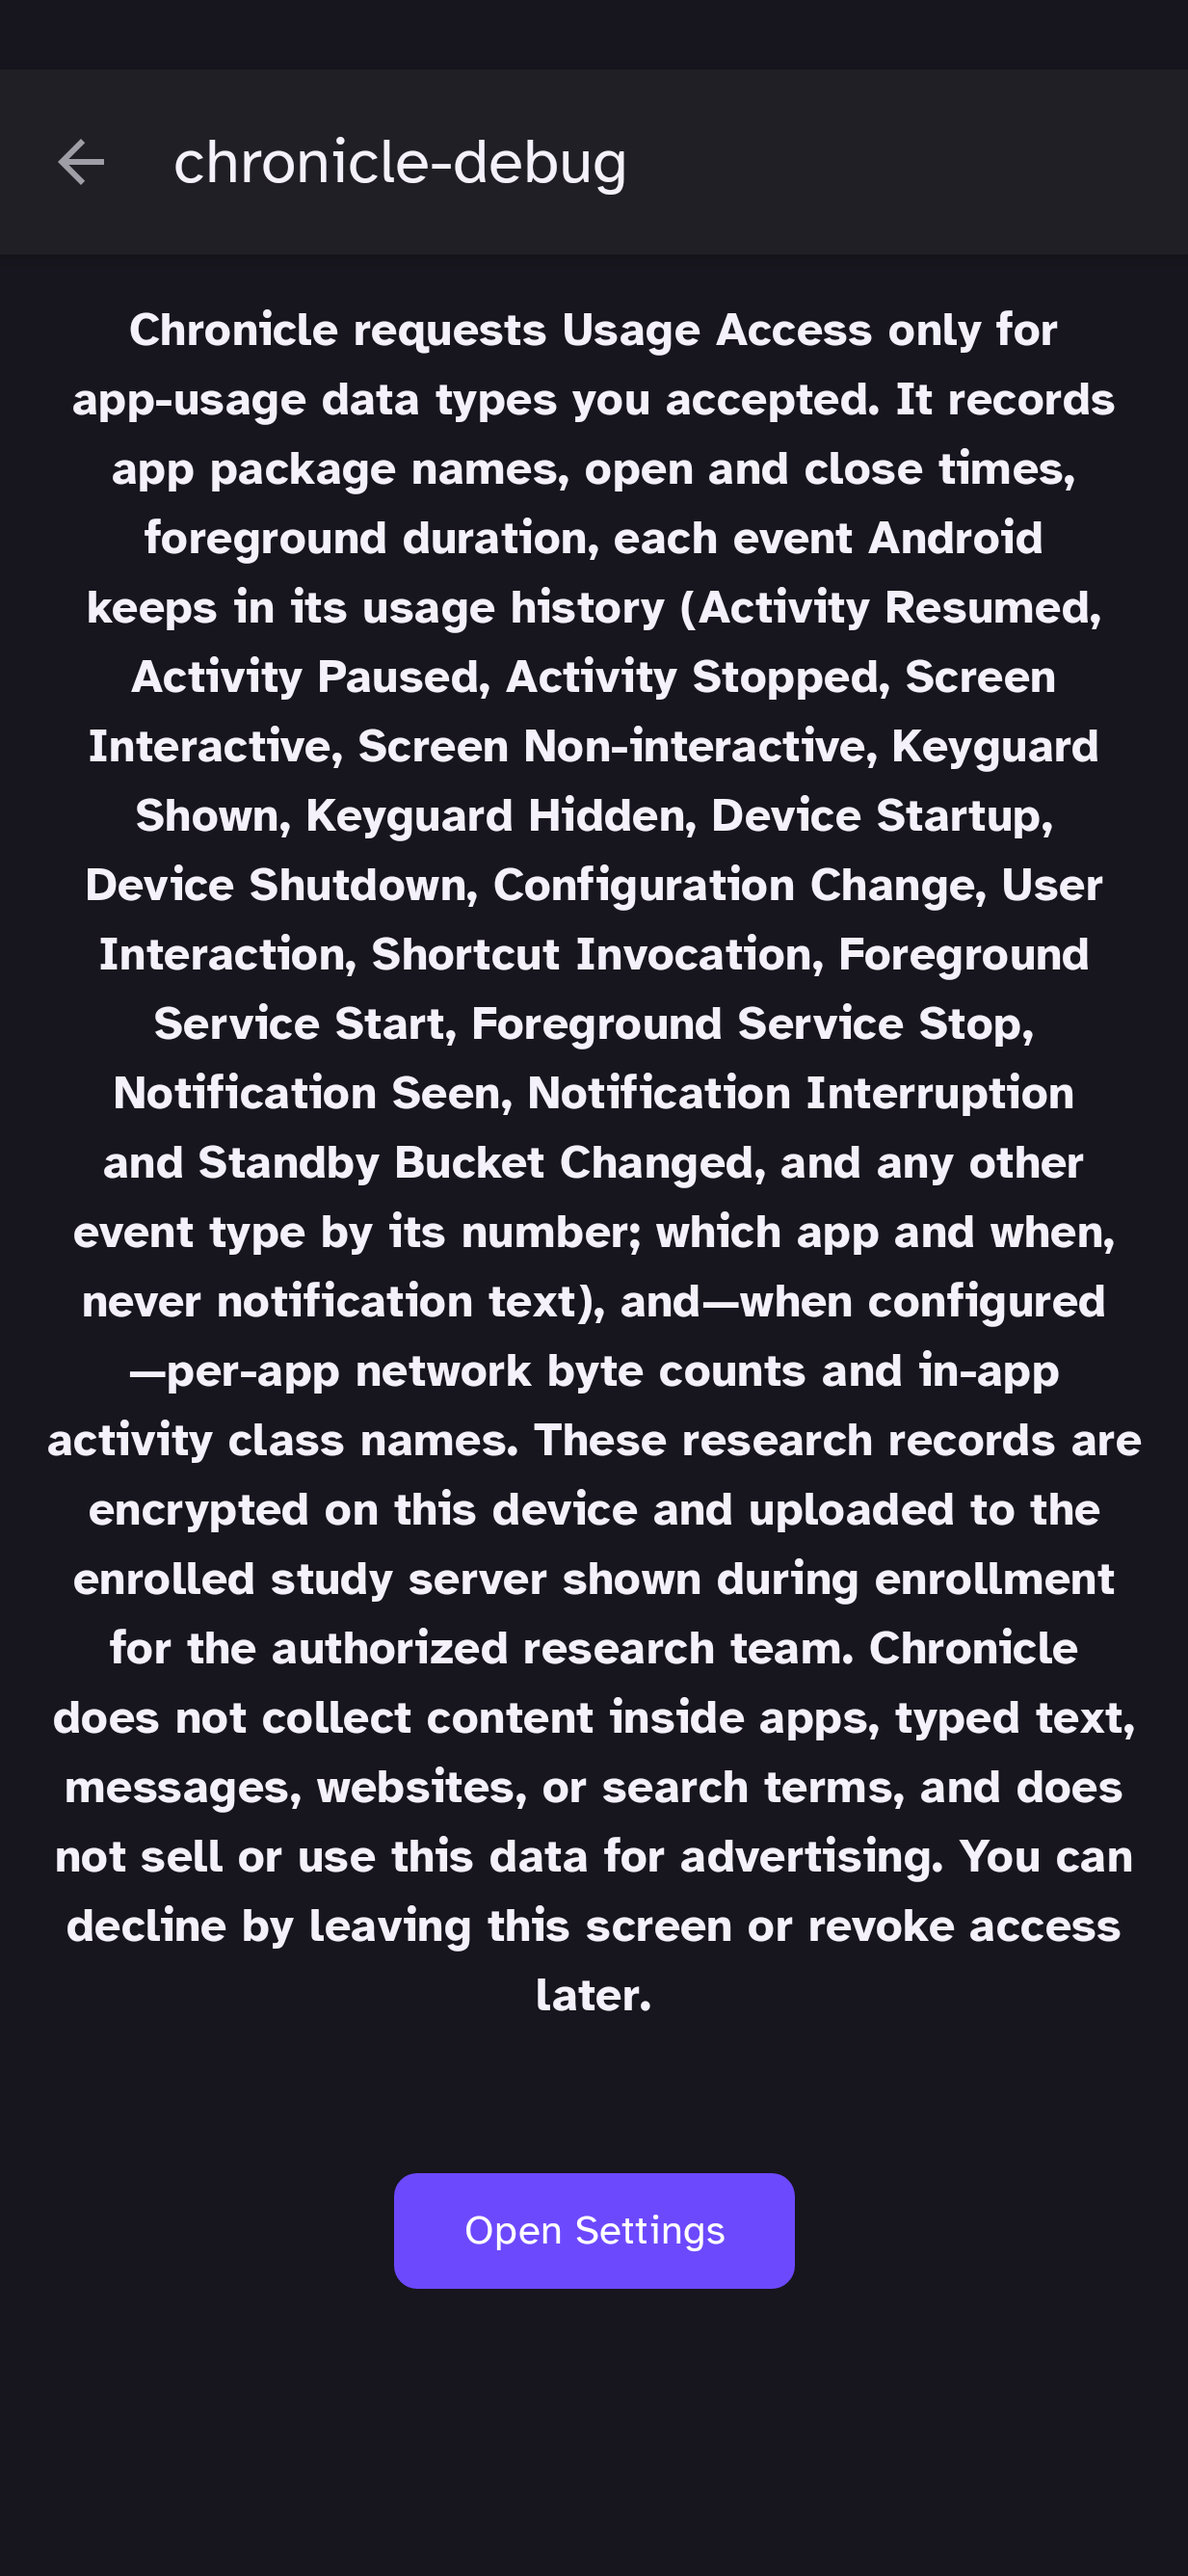
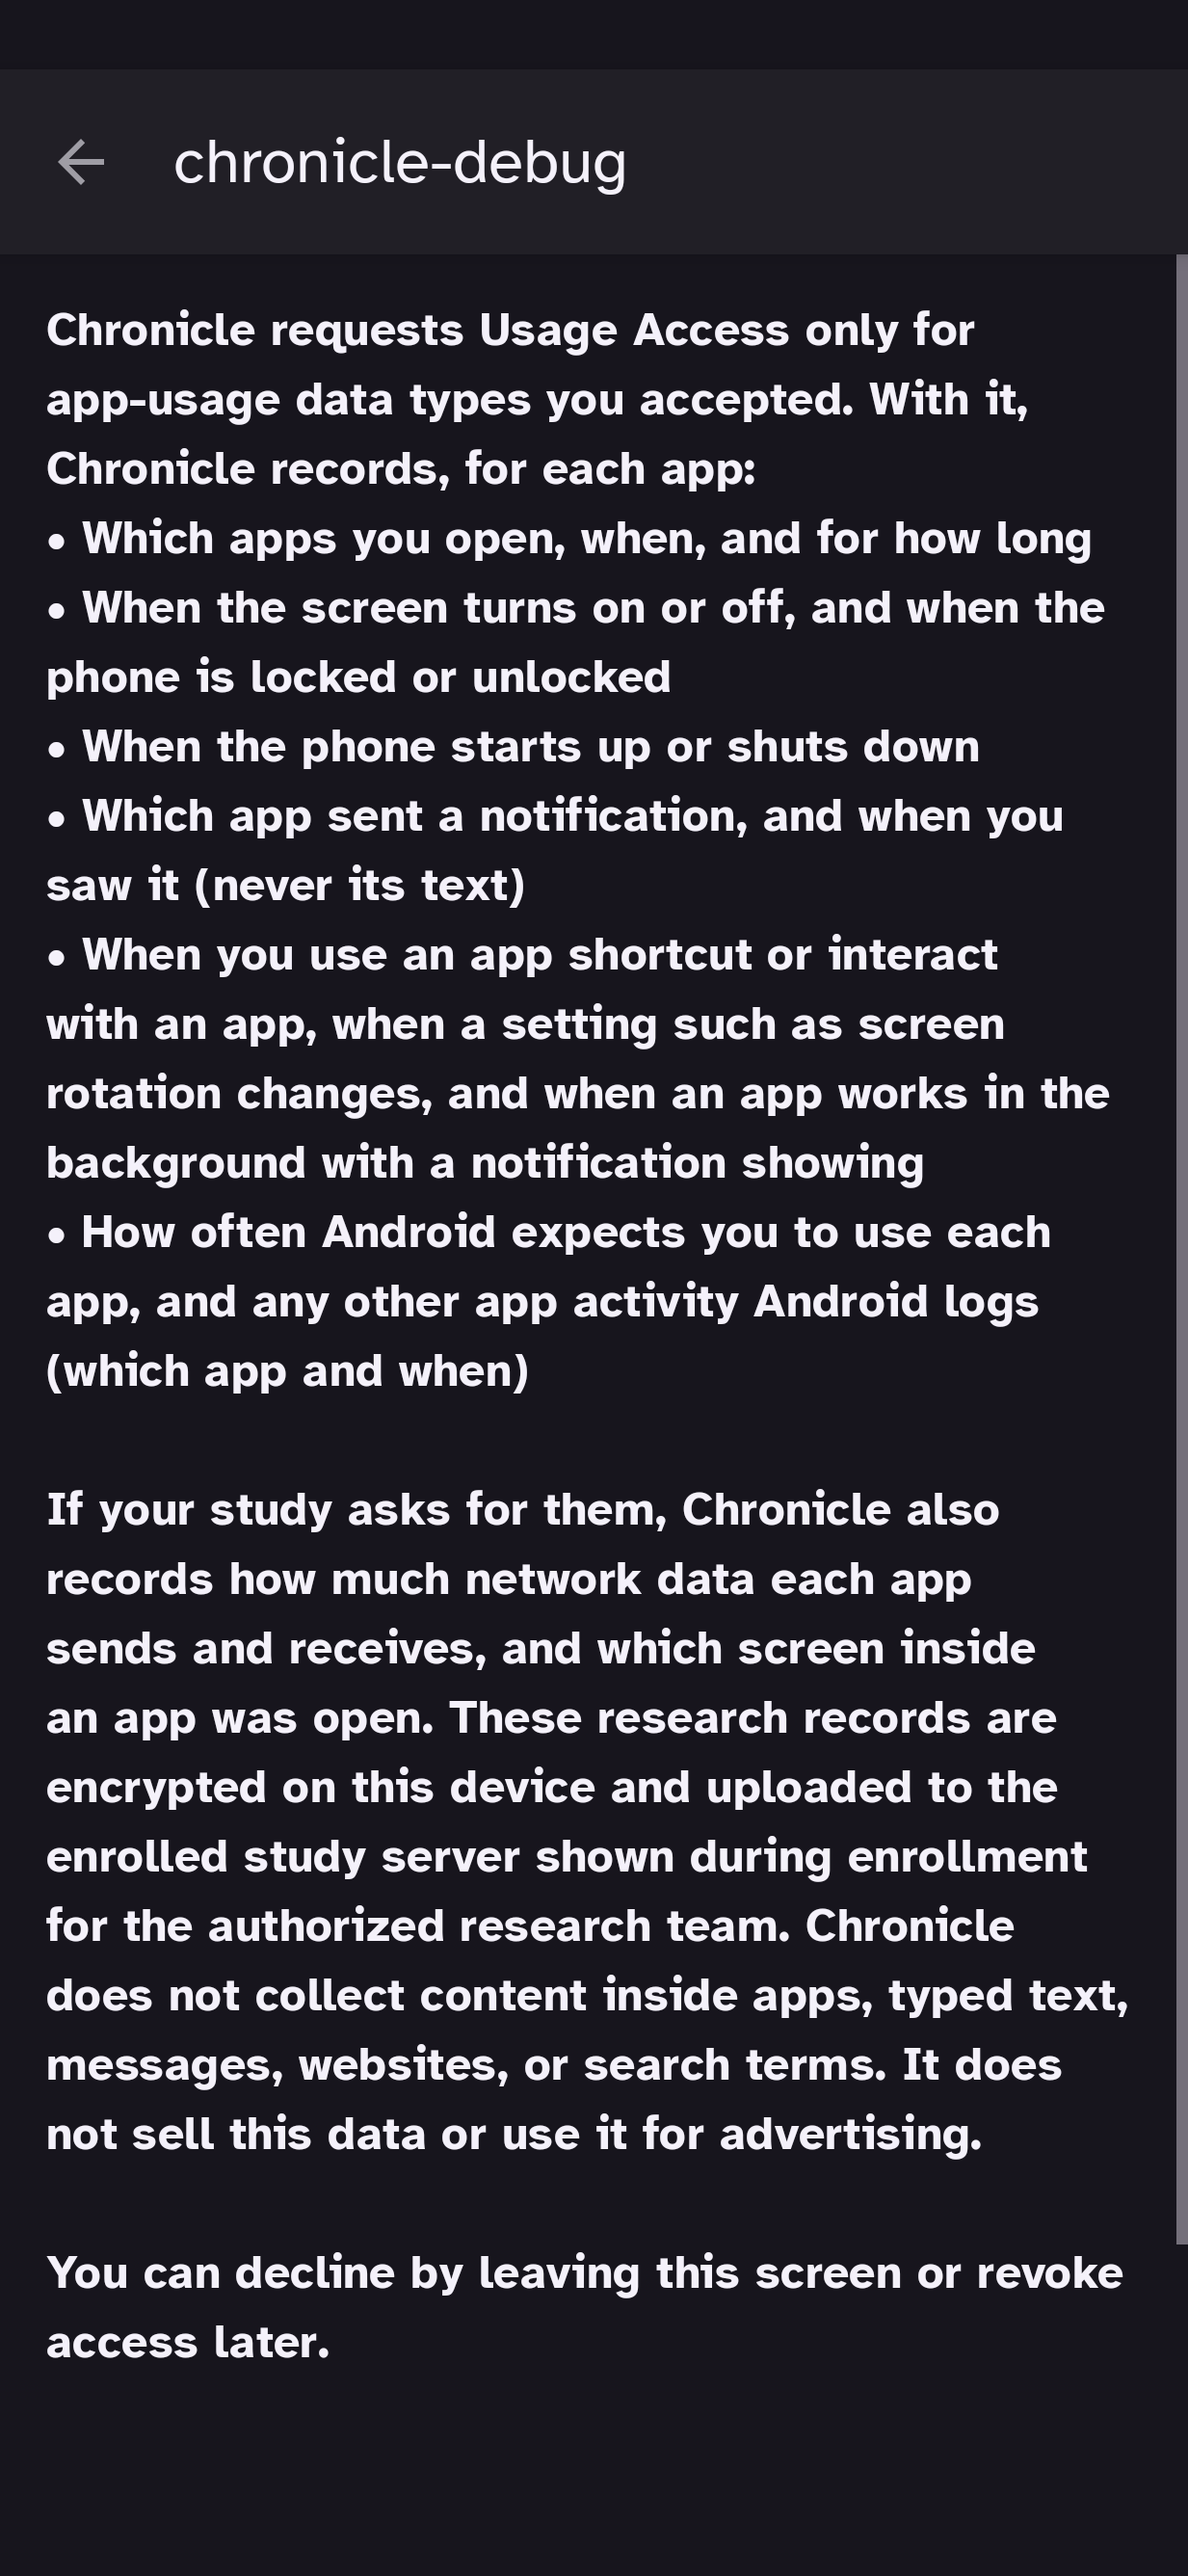
fix(android): show service notifications at once; versionCode 84
- The device-user and sensor foreground-service notifications are
  posted at once (FOREGROUND_SERVICE_IMMEDIATE) instead of after up to
  10 s on Android 12+.
- The "Share app usage data?" dialog and the Usage Access screen list
  the data-choice step's plain bullets instead of Android event names,
  in English and Spanish.
- versionCode 84 (2026.11.04-internal.open.3).

Changed region(s): [[0.0308, 0.1242, 0.9554, 0.9315], [0.9862, 0.0932, 1.0, 0.8694], [0.8321, 0.8694, 0.9554, 0.9005]]

diff --git a/app/src/test/java/com/openlattice/chronicle/services/PlatformGateTest.kt b/app/src/test/java/com/openlattice/chronicle/services/PlatformGateTest.kt
@@ -18,6 +18,7 @@ import android.os.IBinder
 import android.os.PowerManager
 import android.provider.Settings
 import android.os.Build
+import androidx.core.app.NotificationCompat
 import androidx.test.core.app.ApplicationProvider
 import androidx.work.WorkManager
 import com.openlattice.chronicle.BuildConfig
@@ -61,14 +62,14 @@ class PlatformGateTest {
     private val alarmManager = requireNotNull(app.getSystemService(AlarmManager::class.java)) { "alarm manager available" }
     private val channelId = "guard-test"
 
-    private fun notification(): Notification {
+    private fun notification(): NotificationCompat.Builder {
         manager.createNotificationChannel(NotificationChannel(channelId, "Guard test", NotificationManager.IMPORTANCE_LOW))
-        return Notification.Builder(app, channelId).setSmallIcon(android.R.drawable.ic_dialog_info).build()
+        return NotificationCompat.Builder(app, channelId).setSmallIcon(android.R.drawable.ic_dialog_info)
     }
 
     @Test @Config(sdk = [32, Build.VERSION_CODES.TIRAMISU, 36])
     fun notificationPostingChecksRuntimeAndAppState() {
-        val notification = notification()
+        val notification = notification().build()
         shadowOf(app).denyPermissions(Manifest.permission.POST_NOTIFICATIONS)
         // Robolectric does not model Android's silent drop; assert the guard's decision.
         assertEquals(Build.VERSION.SDK_INT < Build.VERSION_CODES.TIRAMISU, postNotificationIfPermitted(app, 1, notification))
@@ -160,13 +161,16 @@ class PlatformGateTest {
         shadowOf(app).denyPermissions(Manifest.permission.POST_NOTIFICATIONS)
         // Robolectric does not enforce manifest service types; inspect the successful promotion.
         val service = Robolectric.buildService(TestService::class.java).create().get()
-        val notification = notification()
-        assertTrue(promoteForegroundServiceIfPermitted(service, 1, notification))
+        val builder = notification()
+        assertTrue(promoteForegroundServiceIfPermitted(service, 1, builder))
         if (Build.VERSION.SDK_INT >= 29) {
             assertEquals(if (Build.VERSION.SDK_INT >= Build.VERSION_CODES.UPSIDE_DOWN_CAKE) ServiceInfo.FOREGROUND_SERVICE_TYPE_SPECIAL_USE else 0,
                 service.foregroundServiceType)
         }
         assertEquals(1, shadowOf(service).lastForegroundNotificationId)
+        // Android 12+ defers a foreground-service notification up to 10 s unless it asks to be shown at once;
+        // NotificationCompat passes this to the platform builder on 31+.
+        assertEquals(NotificationCompat.FOREGROUND_SERVICE_IMMEDIATE, builder.foregroundServiceBehavior)
     }
 
     @Test @Config(sdk = [30, Build.VERSION_CODES.S, 36])

diff --git a/app/src/test/java/com/openlattice/chronicle/release/UsageEventDisclosureContractTest.kt b/app/src/test/java/com/openlattice/chronicle/release/UsageEventDisclosureContractTest.kt
@@ -18,6 +18,7 @@ import org.junit.Assert.assertEquals
 import org.junit.Assert.assertFalse
 import org.junit.Assert.assertTrue
 import org.junit.Test
+import java.util.Locale
 import org.junit.runner.RunWith
 import org.robolectric.RobolectricTestRunner
 import org.robolectric.Shadows.shadowOf
@@ -55,8 +56,6 @@ class UsageEventDisclosureContractTest {
         assertTrue(names.containsAll(listOf("Notification Seen", "Standby Bucket Changed", "Foreground Service Start")))
         val disclosures = mapOf(
             "privacy policy" to app.getString(R.string.platform_privacy_policy_full),
-            "usage access disclosure" to app.getString(R.string.usage_access_disclosure_body),
-            "usage access screen" to app.getString(R.string.usage_settings_permission),
             "data safety" to checkNotNull(javaClass.getResourceAsStream("/data-safety.md")).bufferedReader().use { it.readText() },
         )
         disclosures.forEach { (where, text) ->
@@ -72,6 +71,24 @@ class UsageEventDisclosureContractTest {
         }
         names.forEach { assertTrue("no plain-language usage consent bullet covers $it", it in BULLET_OF_LABEL) }
         bullets.forEach { bullet -> names.forEach { assertFalse("usage consent shows the Android name $it", it in bullet) } }
+    }
+
+    /**
+     * The Usage Access dialog and screen list the data-choice step's plain bullets word for word, in every language,
+     * and show no Android event name. The bullets are repeated in the strings, so this keeps the two from drifting.
+     */
+    @Test fun usageAccessTextsListThePlainBulletsInEveryLanguage() {
+        for (language in listOf("en", "es")) {
+            val localized = app.createConfigurationContext(
+                Configuration(app.resources.configuration).apply { setLocale(Locale.forLanguageTag(language)) })
+            val plain = localized.resources.getStringArray(R.array.consent_usage_events_collects).toList()
+            assertEquals(PLAIN_BULLETS.size, plain.size)
+            listOf(R.string.usage_access_disclosure_body, R.string.usage_settings_permission).forEach { id ->
+                val text = localized.getString(id)
+                plain.forEach { assertTrue("$language ${localized.resources.getResourceEntryName(id)} must list '$it'", it in text) }
+                BULLET_OF_LABEL.keys.forEach { assertFalse("$language text shows the Android name $it", it in text) }
+            }
+        }
     }
 
     private companion object {

diff --git a/app/src/main/java/com/openlattice/chronicle/services/ForegroundServices.kt b/app/src/main/java/com/openlattice/chronicle/services/ForegroundServices.kt
@@ -1,13 +1,13 @@
 package com.openlattice.chronicle.services
 
 import androidx.annotation.CheckResult
-import android.app.Notification
 import android.app.Service
 import android.content.Context
 import android.content.Intent
 import android.content.pm.ServiceInfo
 import android.os.Build
 import android.util.Log
+import androidx.core.app.NotificationCompat
 import androidx.core.app.ServiceCompat
 import androidx.core.content.ContextCompat
 
@@ -27,8 +27,14 @@ internal fun startForegroundServiceIfPermitted(context: Context, intent: Intent)
     }
 }
 
+/**
+ * Promotes [service] with the notification from [builder]. The notification is always shown at once: Android 12+
+ * otherwise holds a foreground-service notification back for up to 10 s, and a participant who just turned a module
+ * on must see that collection is running. Taking the builder (not a built Notification) keeps that rule in one place.
+ */
 @CheckResult
-internal fun promoteForegroundServiceIfPermitted(service: Service, id: Int, notification: Notification): Boolean {
+internal fun promoteForegroundServiceIfPermitted(service: Service, id: Int, builder: NotificationCompat.Builder): Boolean {
+    val notification = builder.setForegroundServiceBehavior(NotificationCompat.FOREGROUND_SERVICE_IMMEDIATE).build()
     return try {
         // specialUse has no runtime prerequisites; promotion enforces access: https://developer.android.com/develop/background-work/services/fgs/service-types#special-use
         ServiceCompat.startForeground(service, id, notification,

diff --git a/app/src/main/java/com/openlattice/chronicle/services/notifications/DeviceUnlockMonitoringService.kt b/app/src/main/java/com/openlattice/chronicle/services/notifications/DeviceUnlockMonitoringService.kt
@@ -161,7 +161,8 @@ class DeviceUnlockMonitoringService : Service() {
                 PendingIntent.getActivity(applicationContext, 0, it, getPendingIntentMutabilityFlag(0))
             }
 
-        val notification = NotificationCompat.Builder(applicationContext, UNLOCK_MONITORING_CHANNEL_ID)
+        // promoteForegroundServiceIfPermitted posts it at once; Android 12+ would otherwise defer it up to 10 s.
+        val notificationBuilder = NotificationCompat.Builder(applicationContext, UNLOCK_MONITORING_CHANNEL_ID)
             .setContentTitle(getString(R.string.interactivity_monitoring_notification_title))
             .setContentText(getString(R.string.interactivity_monitoring_notification_message))
             .setPriority(NotificationCompat.PRIORITY_LOW)
@@ -169,11 +170,10 @@ class DeviceUnlockMonitoringService : Service() {
             .setSmallIcon(R.drawable.ic_stat_notification)
             .setColor(ContextCompat.getColor(applicationContext, R.color.colorPrimary))
             .setContentIntent(pendingIntent)
-            .build()
 
         val notificationId =
             applicationContext.resources.getInteger(R.integer.unlock_phone_monitoring_notification_id)
-        return promoteForegroundServiceIfPermitted(this, notificationId, notification)
+        return promoteForegroundServiceIfPermitted(this, notificationId, notificationBuilder)
     }
 
     private fun createReceiverIntentFilter(

diff --git a/app/src/googleServices/java/com/openlattice/chronicle/services/sensors/HardwareSensorService.kt b/app/src/googleServices/java/com/openlattice/chronicle/services/sensors/HardwareSensorService.kt
@@ -514,7 +514,7 @@ class HardwareSensorService @JvmOverloads constructor(
             PendingIntent.getActivity(applicationContext, 0, it, getPendingIntentMutabilityFlag(0))
         }
 
-        val notification = NotificationCompat.Builder(applicationContext, channelId)
+        val notificationBuilder = NotificationCompat.Builder(applicationContext, channelId)
             .setContentTitle(getString(R.string.sensor_notification_title))
             .setContentText(getString(R.string.sensor_notification_message))
             .setPriority(NotificationCompat.PRIORITY_LOW)
@@ -523,10 +523,9 @@ class HardwareSensorService @JvmOverloads constructor(
             .setSmallIcon(R.drawable.ic_stat_notification)
             .setColor(ContextCompat.getColor(applicationContext, R.color.colorPrimary))
             .setContentIntent(pendingIntent)
-            .build()
 
         val notificationId = applicationContext.resources.getInteger(R.integer.sensor_service_notification_id)
-        return promoteForegroundServiceIfPermitted(this, notificationId, notification)
+        return promoteForegroundServiceIfPermitted(this, notificationId, notificationBuilder)
     }
 
     /**
